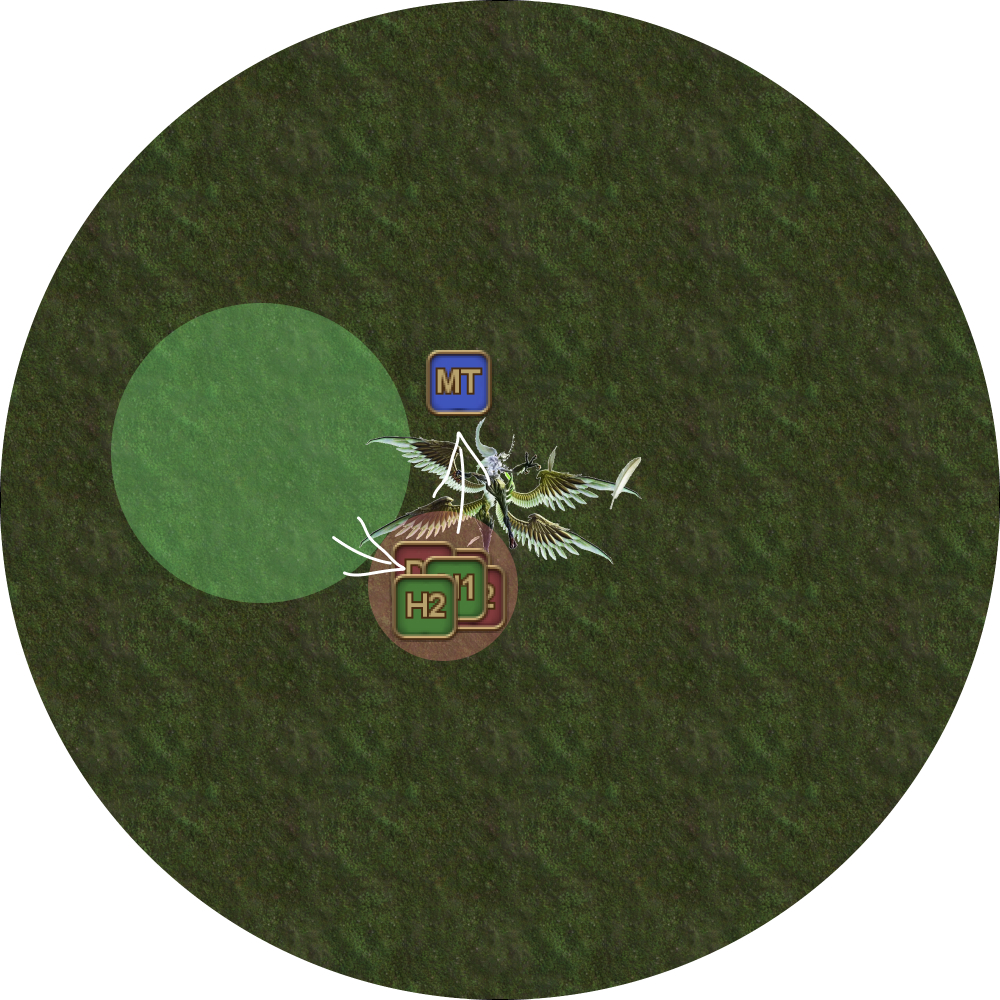
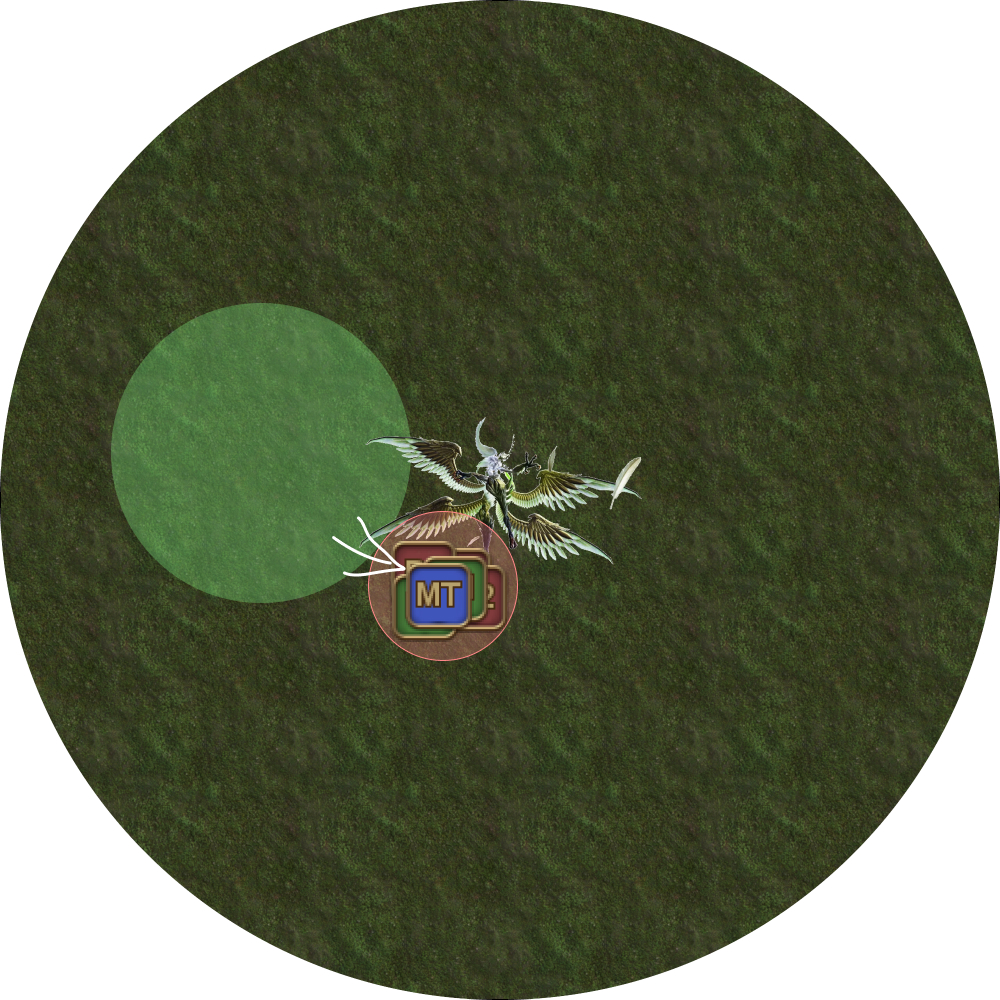
Correct MT stack sequence

Changed region(s): [[0.403, 0.341, 0.496, 0.527], [0.403, 0.558, 0.496, 0.651]]

diff --git a/ultimates/uwu/en/01_garuda.md b/ultimates/uwu/en/01_garuda.md
@@ -99,15 +99,15 @@ This is the major mechanic in Garuda, and is where the party will set Garuda up 
 	  <td><img src="../images/garuda/garuda_08.jpg"></td>
   </tr>
   <tr>
-    <td><p><b>9.</b> Stack near the edge of the bubble:<ul><li><b>Inside:</b> ST, H1, H2, D3, D4</li><li><b>Outside:</b> MT, D1, D2</li></ul></p><p>When the ST enters the bubble, their Thermal Low stacks will be cleansed, dealing raid-wide damage, and giving Garuda her first stack of Aetherically Charged.</p></td>
+    <td><p><b>9.</b> Stack near the edge of the bubble:<ul><li><b>Inside:</b> MT, ST, H1, H2, D3, D4</li><li><b>Outside:</b> D1, D2</li></ul></p><p>When the ST enters the bubble, their Thermal Low stacks will be cleansed, dealing raid-wide damage, and giving Garuda her first stack of Aetherically Charged.</p></td>
 	<td><img src="../images/garuda/garuda_09.jpg"></td>
   </tr>
   <tr>
-    <td><p><b>10.</b> The MT and ST joins D1 and D2 outside the bubble.</p><p>Garuda will cast Friction on a random player other than the MT. This will give all players that are hit one stack of Thermal Low; the players inside the bubble will have their stack immediately cleansed.</p><p><em>(Only the MT, ST, D1, D2 should now have 1 stack of Thermal Low.)</em></p></td>
+    <td><p><b>10.</b> The ST joins D1 and D2 outside the bubble.</p><p>Garuda will cast Friction on a random player. This will give all players that are hit one stack of Thermal Low; the players inside the bubble will have their stack immediately cleansed.</p><p><em>(Only the ST, D1, and D2 should now have 1 stack of Thermal Low.)</em></p></td>
 	<td><img src="../images/garuda/garuda_10.jpg"></td>
   </tr>
   <tr>
-    <td><p><b>11.</b> Everybody exit the bubble. The MT can now split off from the group and point Garuda north.</p><p>Garuda will cast a second Friction on a random player other than the MT, giving all players a stack of Thermal Low.</p><p><em>(All players should have one stack of Thermal Low except the ST, D1, and D2 who have two stacks each.)</em></p></td>
+    <td><p><b>11.</b> Everybody exit the bubble and stack together outside.</p><p>Garuda will cast a second Friction on a random player, giving all players a stack of Thermal Low.</p><p><em>(All players should have one stack of Thermal Low except the ST, D1, and D2 who have two stacks each.)</em></p></td>
 	<td><img src="../images/garuda/garuda_11.jpg"></td>
   </tr>
   <tr>
